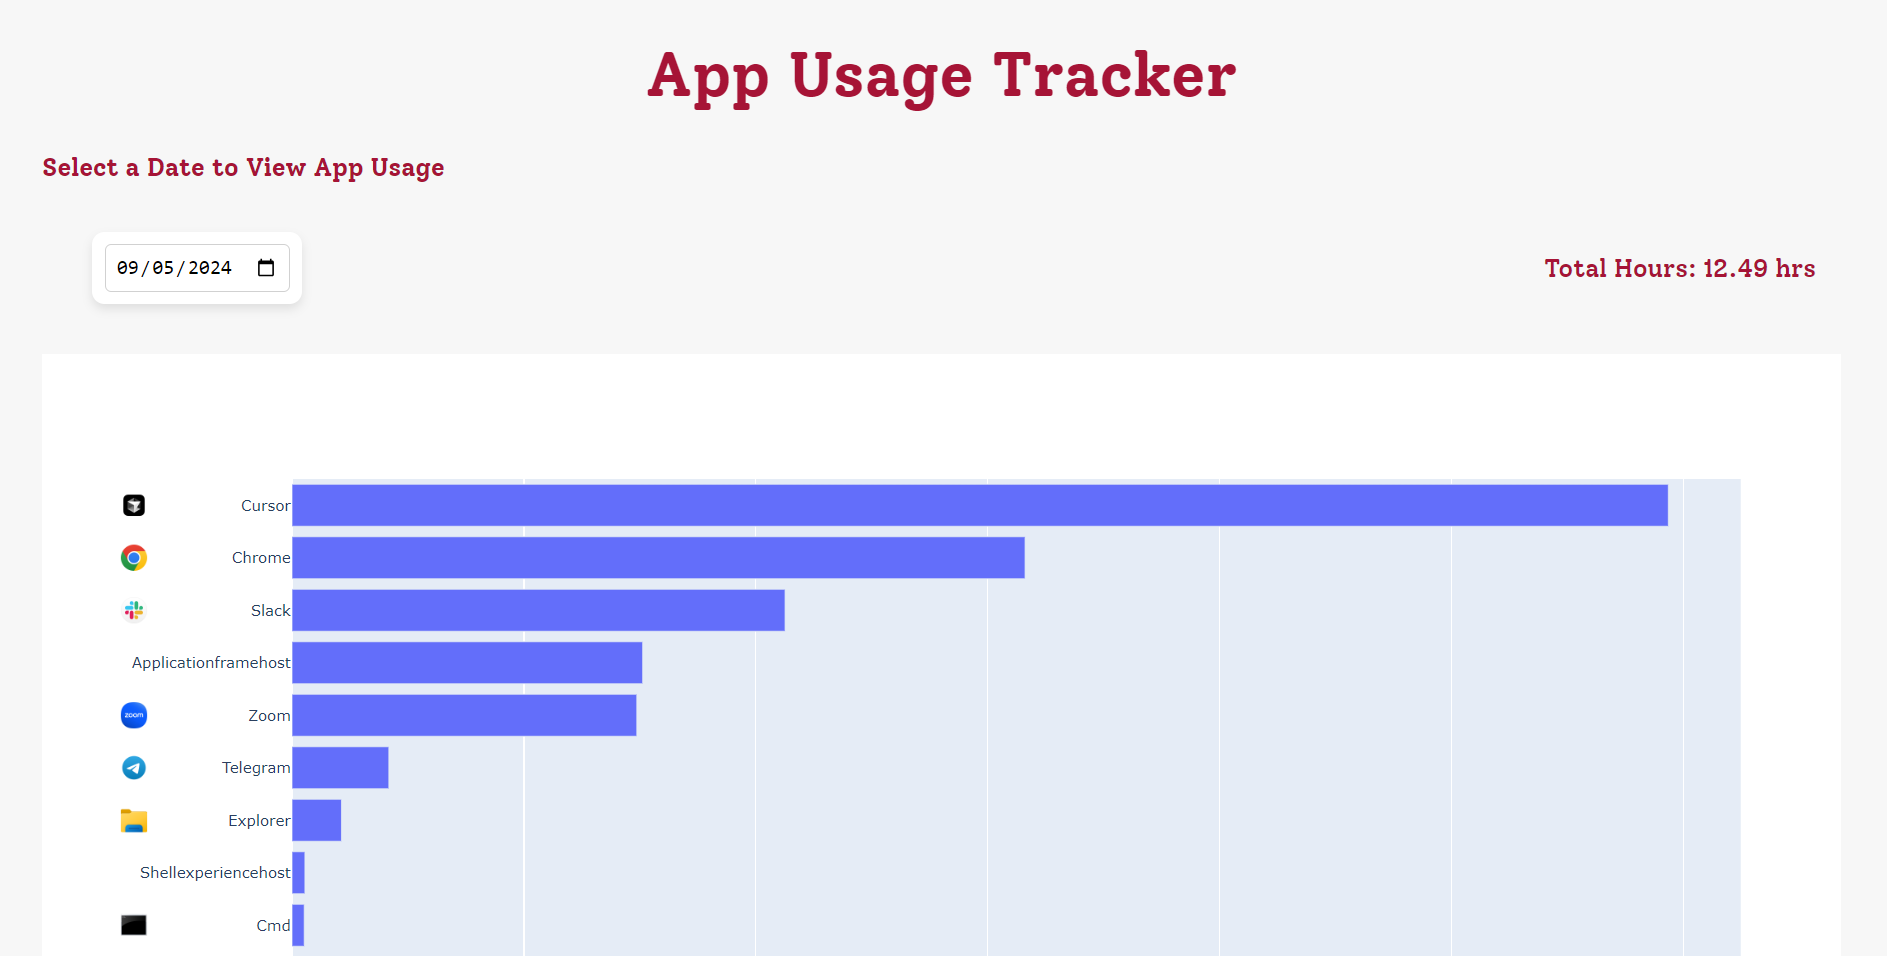
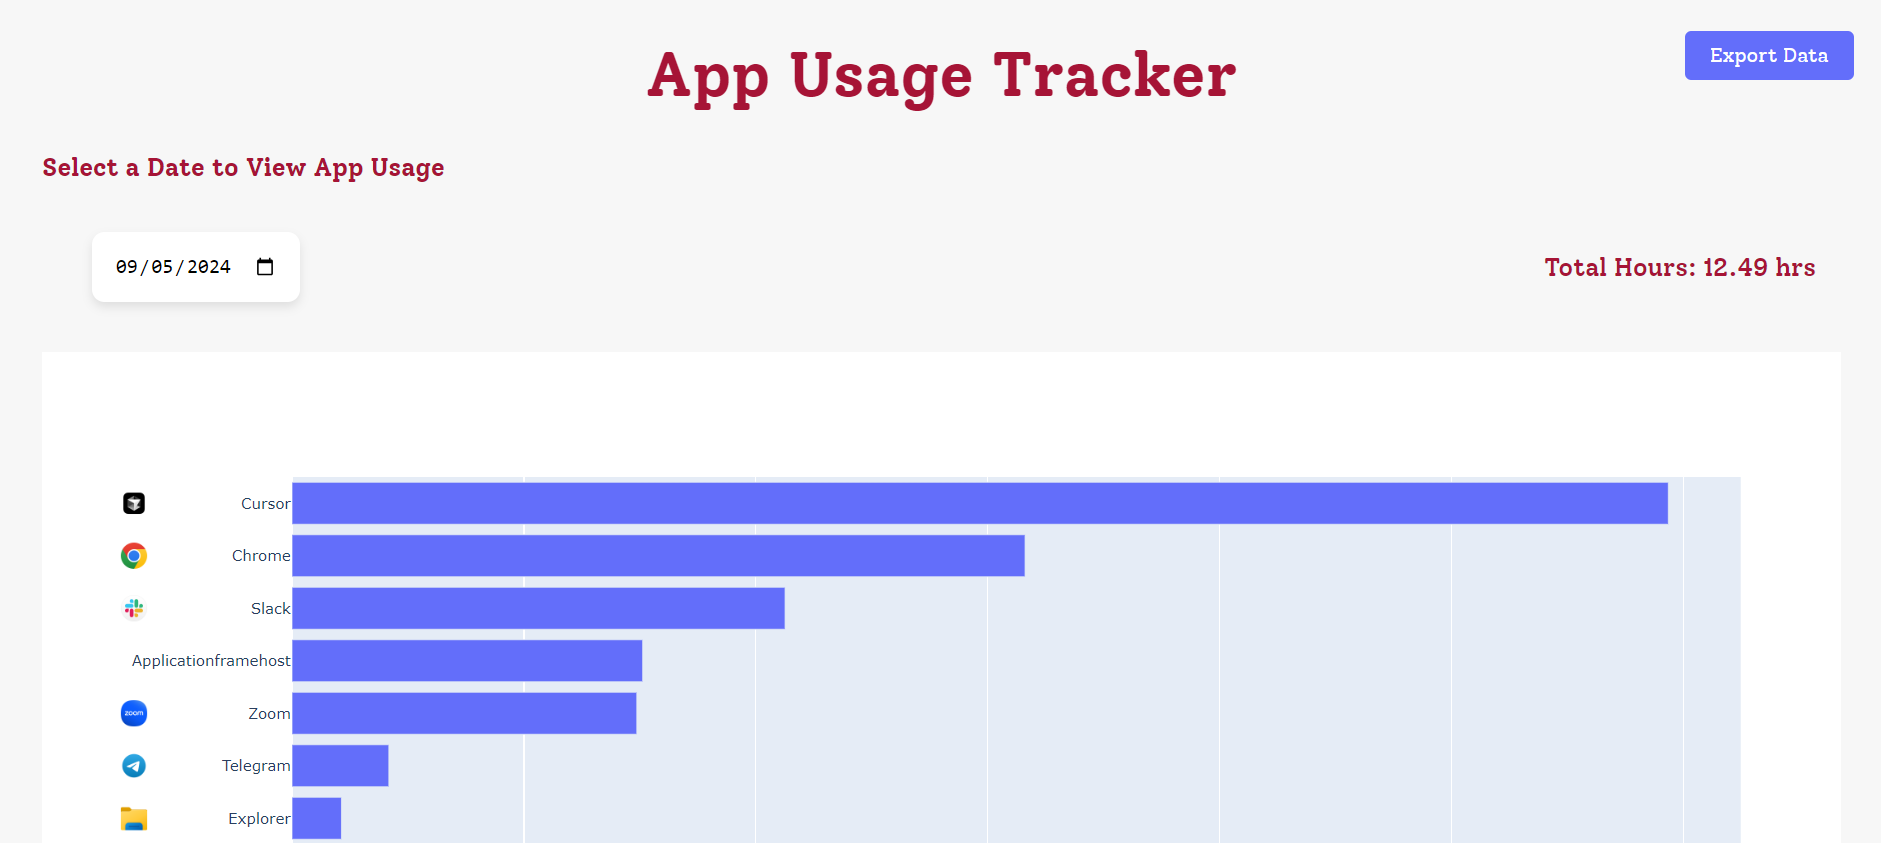
Add export & refresh
Changes Made:
- add get_denormalized_records method to summarizer
- add refresh method to app.py, and call it in a parallel thread (which calls transform_new_data() when needed)
- add export button to the html/css, which calls the export route in the app
- create export route in app.py which calls get_denormalized_records and downloads its result as csv file

diff --git a/static/styling.css b/static/styling.css
@@ -41,15 +41,17 @@ form {
     box-shadow: 0 4px 8px rgba(0, 0, 0, 0.1);
     text-align: left;
 }
-
+form input {
+    cursor: pointer;
+}
 /* Input field (date picker) styling */
 #date-form input[type="date"] {
     padding: 8px;
     font-size: 16px;
-    border: 1px solid #d1d1d1;
+    border: none;
     border-radius: 5px;
     outline: none;
-    transition: border-color 0.2s ease;
+    transition: border-color 0.8s;
 }
 
 #date-form input[type="date"]:focus {
@@ -86,4 +88,23 @@ input[type="date"]:hover {
 
 input[type="radio"]:hover {
     box-shadow: 0 0 5px rgba(99, 110, 234, 0.3);
+}
+
+
+#export-btn {
+    position: absolute;
+    top: 30px;
+    right: 30px;
+    padding: 10px 20px;
+    font-size: 16px;
+    font-family: inherit;
+    background-color: #636efa;
+    color: #ffffff;
+    border: none;
+    border-radius: 5px;
+    cursor: pointer;
+    transition: background-color 0.5s ease;
+}
+#export-btn:hover {
+    background-color: #464db1;
 }

diff --git a/templates/index.html b/templates/index.html
@@ -39,7 +39,13 @@
         <!-- Plotly daily usage graph will be rendered here -->
     </div>
 
-    
+    <button id="export-btn">Export Data</button>
+
+    <script>
+        document.getElementById('export-btn').addEventListener('click', function() {
+            window.location.href = '/export-data';
+        });
+    </script>
     <script type="text/javascript" src="https://cdn.plot.ly/plotly-latest.min.js"></script>
     <script>
         // For the date selection form

diff --git a/app.py b/app.py
@@ -1,17 +1,15 @@
-from flask import Flask, render_template, send_from_directory, request, jsonify
+from flask import Flask, render_template, send_from_directory, request, jsonify, make_response
 import plotly.graph_objects as go
 from plotly.utils import PlotlyJSONEncoder
-from summarizer import get_daily_usage, get_unique_days, get_usage_by_apps
+from summarizer import get_daily_usage, get_unique_days, get_usage_by_apps, get_denormalized_records
 from db import is_transformation_needed, transform_new_data
 import json
 import os
+import time
 import pandas as pd
 
 
 app = Flask(__name__)
-# revoke etl process if needed
-if is_transformation_needed():
-    transform_new_data()
 unique_days = get_unique_days()
 
 # Serve files from the 'Icons' folder
@@ -27,6 +25,21 @@ def serve_icon(filename):
 def index():
     # Render the index page with the empty graph initially
     return render_template('index.html')
+
+@app.route('/export-data', methods=['GET'])
+def export_data():
+    df = get_denormalized_records()
+    df = df.rename(columns={'duration': 'duration (in seconds)', 'datetime': 'datetime (every hour)'})
+    # Create a CSV file from the data
+    csv_data = df.to_csv(index=False)
+
+    # Create a response with the CSV file
+    response = make_response(csv_data)
+    response.headers['Content-Disposition'] = 'attachment; filename="screentime_data.csv"'
+    response.headers['Content-Type'] = 'text/csv'
+
+    return response
+
 
 def create_app_usage_figure(app_usage_df: pd.DataFrame) -> go.Figure:
     # Create the bar chart
@@ -141,5 +154,23 @@ def update_daily_usage_graph():
     return jsonify({'graphJSON': daily_usage_json})
 
 
+# Auto-refresh the database every minute
+def auto_refresh():
+    while True:
+        # revoke etl process if needed
+        time_left = is_transformation_needed()
+        print('time left ', time_left)
+        if time_left == 0:
+            transform_new_data()
+        time.sleep(time_left)
+
+
 if __name__ == '__main__':
-    app.run(debug=True)
+    # Start the auto-refresh thread
+    import threading
+    threading.Thread(target=auto_refresh, daemon=True).start()
+    # Open the webapp
+    import webbrowser
+    webbrowser.open('http://127.0.0.1:8050/')
+    # Run the webapp
+    app.run(debug=False, port=8050)

diff --git a/db.py b/db.py
@@ -89,7 +89,7 @@ def update_app_icon(app_name: str, icon_path: str, file_location: str='') -> Non
     session.commit()
     session.close()
 
-def is_transformation_needed() -> bool:
+def is_transformation_needed() -> int:
     """
     Checks if transformation is needed or not
     """
@@ -97,7 +97,7 @@ def is_transformation_needed() -> bool:
     count = session.query(Record).count()
     session.close()
     # Check if there are more than 600 records (10 minutes)
-    return count > 600
+    return max(0, 600 - count)
 
 def transform_new_data() -> None:
     """

diff --git a/summarizer.py b/summarizer.py
@@ -62,6 +62,12 @@ def get_usage_by_apps(date: datetime.date) -> pd.DataFrame:
     app_counts['usage'] = app_counts['usage'] / 60  # timestamp is in seconds
     return app_counts
 
+def get_denormalized_records() -> pd.DataFrame:
+    session = create_db()
+    query = session.query(HourlyRecords.datetime, App.app_name, HourlyRecords.duration).join(App)
+    result = pd.read_sql(query.statement, session.bind)
+    session.close()
+    return result
 
 def get_unique_days() -> list:
     session = create_db()

diff --git a/README.md b/README.md
@@ -26,10 +26,20 @@ Reads the records file & does necessary transformation.
 Includes following methods:
 - seconds_to_time
 - get_usage_by_apps
+- get_denormalized_records
 - get_unique_days
 - get_daily_usage
 
-### 4. App
+### 4. Icon Extractor
+Uses PIL library to extract icons from the active window, if it is a new app.
+
+Includes following methods:
+- extract_icon
+- ico_to_png
+- png_to_svg
+
+
+### 5. App
 Builds a simple Flask webapp that displays the screen time (for now) daily/monthly/yearly.
 Screenshots of the dashboard:
 <br>
@@ -47,10 +57,10 @@ Screenshots of the dashboard:
     - ~~Insert records as batches (keep 30s in-memory) to reduce I/O~~
     - ~~Summarize old days into hourly app usage data only (each 86,400 rows -> number of apps * 24)~~
 - Improve Dashboard Design
-- Add export option to export data to csv or excel
+- ~~Add export option to export data to csv or excel~~
 - ~~Add app icons to dashboard~~
 - ~~Migrate to Flask~~
-- Auto-Refresh Dashboard (auto-transform actually)
+- ~~Auto-Refresh Dashboard (auto-transform actually)~~
 
 These are just some ideas to be done soon, surely on the long-run many features could be added. Don't hesitate to share any suggestions!
 
